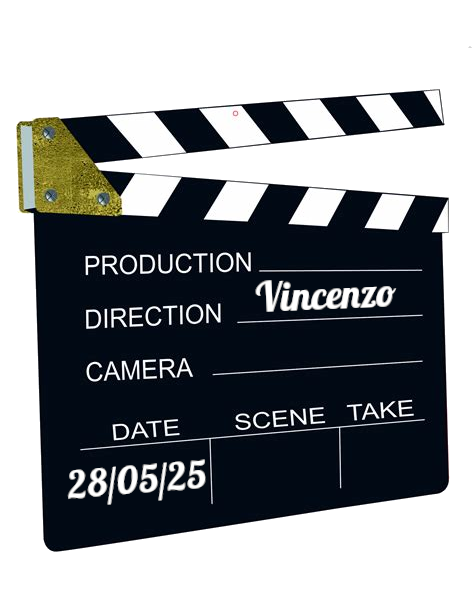
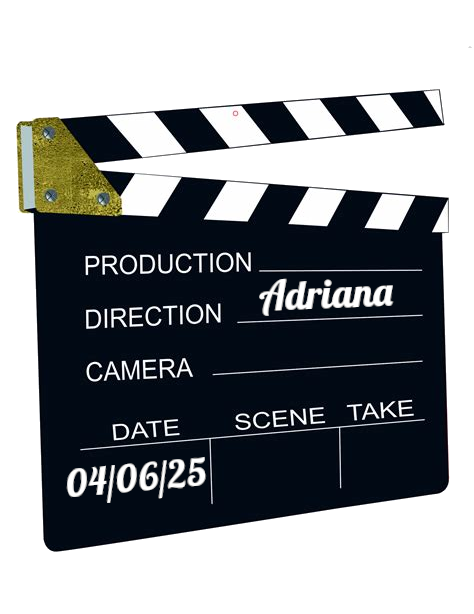
La terra promessa

Changed region(s): [[0.5316, 0.4332, 0.8565, 0.5261], [0.1181, 0.7427, 0.443, 0.8355]]

diff --git a/index.html b/index.html
@@ -38,12 +38,21 @@
 
 <br /><br /><hr width="90%"><hr width="90%"><br /><br />
 
-<h1>Mercoled&igrave; 28 maggio 2025</h1>
+<h1>Mercoled&igrave; 4 giugno 2025</h1>
 <h2>Alle 20:30 in Via Nizza, 72</h2>
 <img src="img/ciak.png" class="locandina"/>
-<h2>Selezionatore: <i>Vincenzo</i></h2>
+<h2>Selezionatrice: <i>Adriana</i></h2>
 
 <br /><br /><hr width="90%"><hr width="90%"><br /><br />
+
+<h1>Mercoled&igrave; 28 maggio 2025</h1>
+<p class="mtitle">
+<a href="https://www.imdb.com/title/tt20561198" target="_blank">La terra promessa</a>
+</p>
+<img src="https://image.tmdb.org/t/p/w500/14H3r2hckKMrkwr5CMAxwsiLOO3.jpg" class="locandina"/>
+<h2>Selezionatore: <i>Vincenzo</i></h2>
+
+<br /><br /><hr width="90%"><br /><br />
 
 <h1>Mercoled&igrave; 21 maggio 2025</h1>
 <p class="mtitle">

diff --git a/movieslist.html b/movieslist.html
@@ -29,6 +29,17 @@ Rassegnamoci, Cineforum a Programma Variabile - Elenco Film
   </thead>
   <tbody>
     <tr>
+      <td>28-Mag-2025</td>
+      <td>La terra promessa</td>
+      <td>Vincenzo</td>
+      <td>-</td>
+      <td>2023</td>
+      <td>Nikolaj Arcel</td>
+      <td>127</td>
+      <td>DK; DE; SE</td>
+      <td><a href="https://www.imdb.com/title/tt20561198" target="_blank">https://www.imdb.com/title/tt20561198</a></td>
+    </tr>
+    <tr>
       <td>21-Mag-2025</td>
       <td>No Other Land</td>
       <td>Serena</td>
